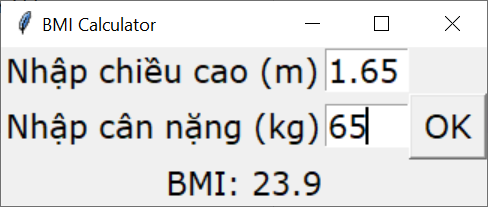
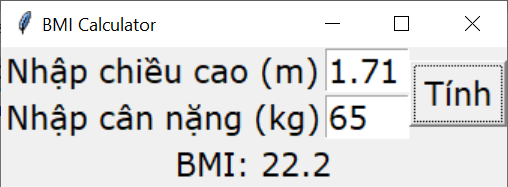
update GUI content

diff --git a/docs/topics/gui/README.md b/docs/topics/gui/README.md
@@ -25,7 +25,6 @@ greeting.pack()
 window.mainloop()
 ```
 
-- Kết quả chạy chương trình:
 ![Kết quả chạy chương trình](img/first_tkinter_app.png)
 
 - Một ứng dụng phức tạp hơn: BMI calculator
@@ -43,28 +42,32 @@ def bmi_calculate():
 # Khởi tạo cửa sổ ứng dụng
 root = Tk()
 root.title('BMI Calculator')
+
+# Tạo các nhãn (label) trong cửa sổ
 h_message_label = Label(text='Nhập chiều cao (m)',
                         font=('Verdana', 16))
 w_message_label = Label(text='Nhập cân nặng (kg)',
                         font=('Verdana', 16))
-
 output_label = Label(font=('Verdana', 16))
+
 # Tạo textbox nhập liệu
 h_entry = Entry(font=('Verdana', 16), width=4)
 w_entry = Entry(font=('Verdana', 16), width=4)
-# Tạo nút lệnh
-calc_button = Button(text='Caculate', font=('Verdana', 16),
+
+# Tạo nút lệnh (button)
+calc_button = Button(text='Tính', font=('Verdana', 16),
                      command=bmi_calculate)
-# Sắp xếp các đối tượng vào lưới
+
+# Sắp xếp vị trí các đối tượng đồ họa
 h_message_label.grid(row=0, column=0)
 w_message_label.grid(row=1, column=0)
 h_entry.grid(row=0, column=1)
 w_entry.grid(row=1, column=1)
-calc_button.grid(row=1, column=2)
+calc_button.grid(row=0, column=2, rowspan=2)
 output_label.grid(row=2, column=0, columnspan=3)
+
 # Chạy Tkinter event loop
 mainloop()
 ```
 
-Kết quả chạy chương trình:
 ![Kết quả chạy chương trình](img/bmi_calculator.png)

diff --git a/docs/README.md b/docs/README.md
@@ -24,6 +24,8 @@ Programming with Python
 
 - #### [Một số thư viện Python thông dụng](#)
 
+- #### [Tạo ứng dụng GUI](topics/gui/)
+
 - #### [Xây dựng giải pháp học máy, khoa học dữ liệu](#)
 
 - #### [Bài thực hành](#)
